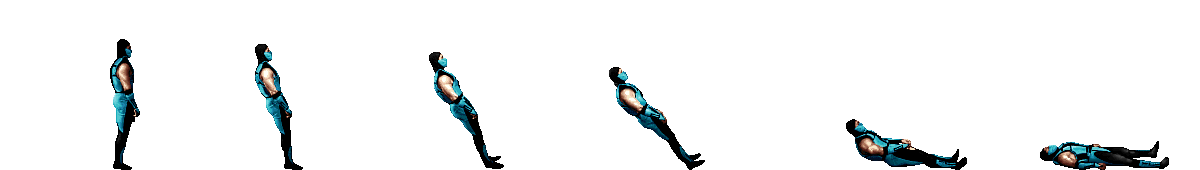
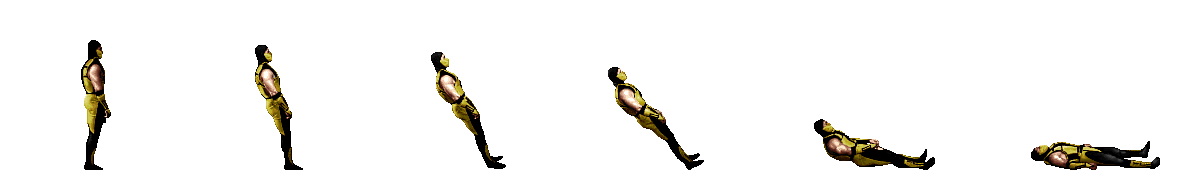
2do mov especial

diff --git a/src/Character.cpp b/src/Character.cpp
@@ -161,6 +161,8 @@ bool Character::load(SDL_Renderer* render) {
 			renderer, SPRITE_WIDTH, SPRITE_HEIGHT, 8, this->isAltPlayer, this->altColor);
 	Sprite* spriteFalling = new Sprite(this->name+this->playerNumber+FALLING_SUFFIX, characterPath+FALLING_SPRITE,
 			renderer, SPRITE_WIDTH, SPRITE_HEIGHT, 6, this->isAltPlayer, this->altColor);
+	Sprite* spriteSpecial = new Sprite(this->name+this->playerNumber+SPECIAL_SUFFIX, characterPath+SPECIAL_SPRITE,
+			renderer, SPRITE_WIDTH, SPRITE_HEIGHT, 6, this->isAltPlayer, this->altColor);
 
 	//TODO: Files path must be generated depending on the character
 	this->characterSprites.insert(std::map<std::string, Sprite*>::value_type(this->name+this->playerNumber+WALK_SUFFIX, spriteWalk));
@@ -199,6 +201,7 @@ bool Character::load(SDL_Renderer* render) {
 	this->characterSprites.insert(std::map<std::string, Sprite*>::value_type(this->name+this->playerNumber+LAZY_SUFFIX, spriteLazy));
 	this->characterSprites.insert(std::map<std::string, Sprite*>::value_type(this->name+this->playerNumber+BURNING_SUFFIX, spriteBurning));
 	this->characterSprites.insert(std::map<std::string, Sprite*>::value_type(this->name+this->playerNumber+FALLING_SUFFIX, spriteFalling));
+	this->characterSprites.insert(std::map<std::string, Sprite*>::value_type(this->name+this->playerNumber+SPECIAL_SUFFIX, spriteSpecial));
 
 	return true;
 }
@@ -709,6 +712,11 @@ void Character::update() {
 				this->setMovement(SWEEP_MOVEMENT);
 				setCurrentSprite();
 				sweepMovement();
+				break;
+			case SPECIAL:
+				this->setMovement(SPECIAL_MOVEMENT);
+				setCurrentSprite();
+				completeMovement();
 				break;
 			case BABALITY:
 				this->finishMove = new Babality();
@@ -1449,7 +1457,9 @@ void Character::setCurrentSprite(){
 		else if (this->getMovement() == FALLING_MOVEMENT) {
 			currentSprite = this->characterSprites[this->name + this->playerNumber+ FALLING_SUFFIX];
 		}
-
+		else if (this->getMovement() == SPECIAL_MOVEMENT) {
+			currentSprite = this->characterSprites[this->name + this->playerNumber+ SPECIAL_SUFFIX];
+		}
 		else{
 			//TODO: review
 		}
@@ -1538,6 +1548,9 @@ void Character::setMoveFlag(bool trueOrFalse){
 		isBurning = trueOrFalse;
 	}
 	else if (this->getMovement() == FALLING_MOVEMENT) {
+		isFalling = trueOrFalse;
+	}
+	else if (this->getMovement() == SPECIAL_MOVEMENT) {
 		isFalling = trueOrFalse;
 	}
 	else {

diff --git a/headers/Constants.h b/headers/Constants.h
@@ -131,6 +131,7 @@ const float FRONTAL_LAYER_SPEED = 2;
 #define VICTORY_MOVEMENT "victory"
 #define REPTILE_MOVEMENT "reptile"
 #define FALLING_MOVEMENT "falling"
+#define SPECIAL_MOVEMENT "special"
 #define JUMPING_X_SPEED 4
 #define SWEEP_X_SPEED 8
 
@@ -172,6 +173,7 @@ const float FRONTAL_LAYER_SPEED = 2;
 #define LAZY_SUFFIX "lazy"
 #define REPTILE_SUFFIX "reptile"
 #define FALLING_SUFFIX "falling"
+#define SPECIAL_SUFFIX "special"
 //Commons Strings
 #define EMPTY_STRING ""
 #define WHITE_SPACE " "
@@ -214,6 +216,7 @@ const string FRIENDSHIP_SPRITE ="/friendship.png";
 const string VICTORY_SPRITE ="/victory.png";
 const string LAZY_SPRITE ="/lazy.png";
 const string REPTILE_SPRITE ="/reptile.png";
+const string SPECIAL_SPRITE = "/special.png";
 const string DEFAULT_PATH_SPRITE_CONTAINER = "default";
 const string ROOT_IMAGE_PATH = "images/";
 const string FIGHT_IMAGE_SPRITE = "images/fight/fight.png";

diff --git a/headers/InputControl.h b/headers/InputControl.h
@@ -54,7 +54,8 @@ enum InputCommand {
 	HEADLESS,
 	HEADLESS_BLOOD,
 	FRIENDSHIP,
-	LAZY
+	LAZY,
+	SPECIAL
 
 };
 
